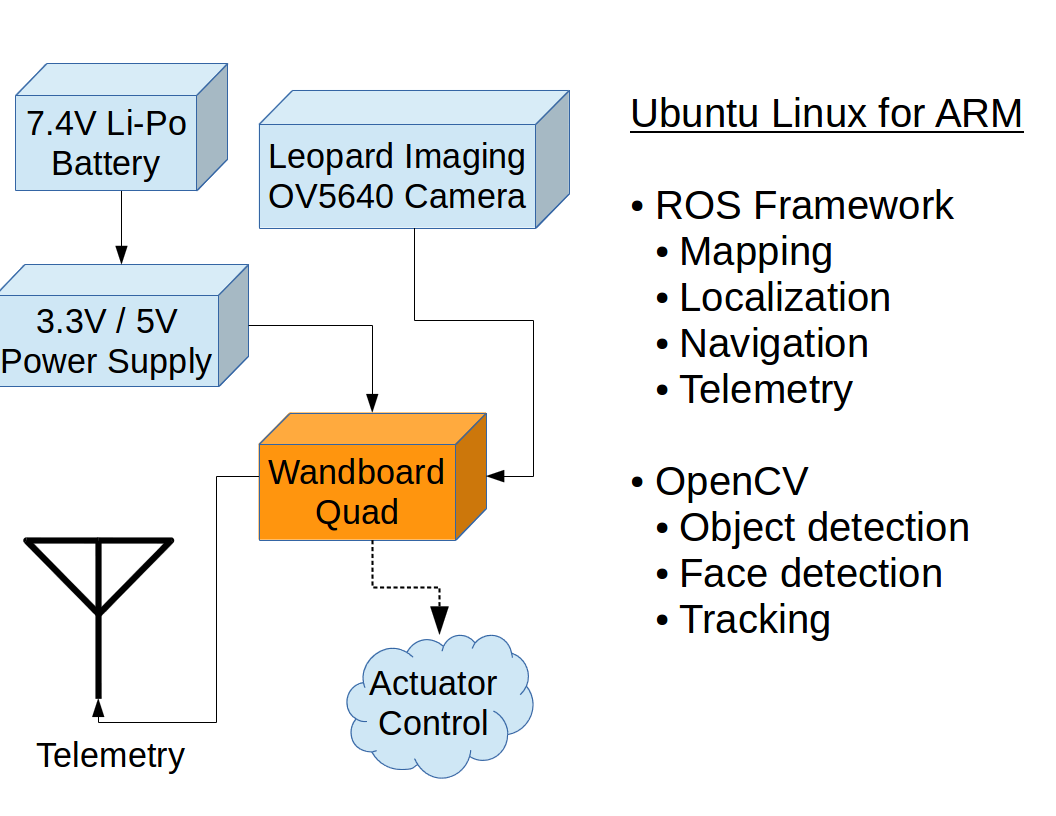
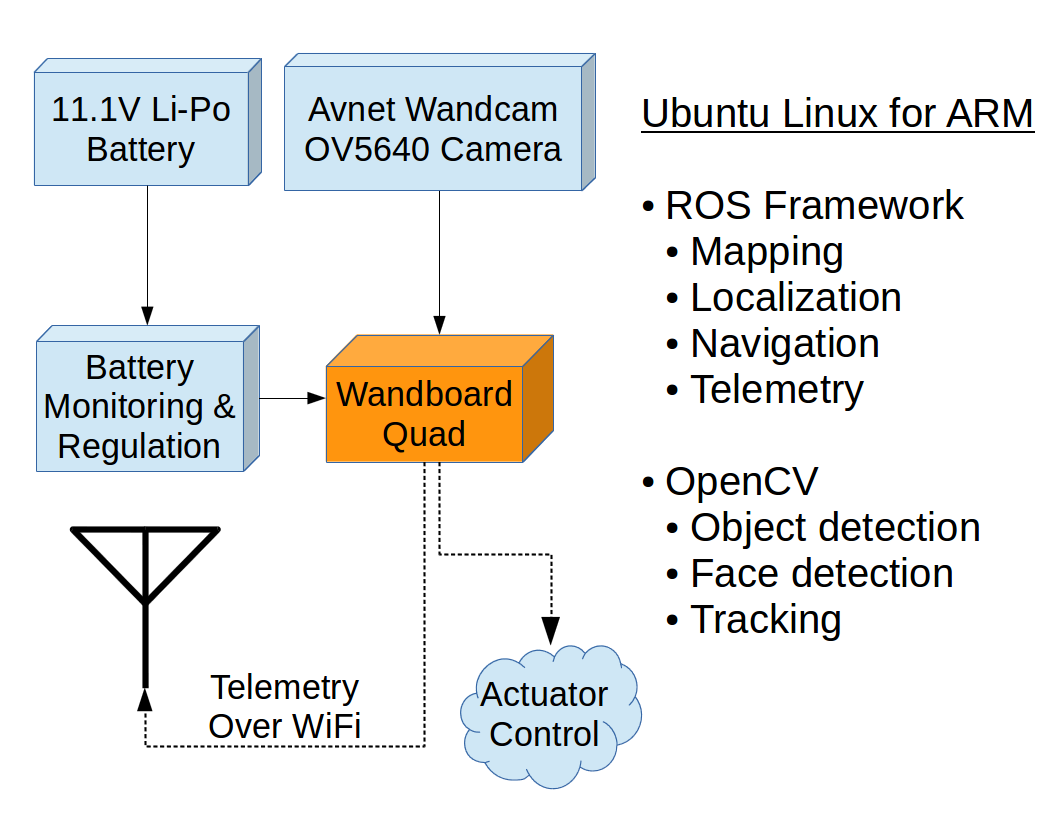
finished article 0, working on wrong branch

diff --git a/doc/articles/00_intro-article.md b/doc/articles/00_intro-article.md
@@ -2,16 +2,16 @@
 
 # C-BISCUIT: A  DIY Robotics Platform for the Hacker and Hobbyist
 
+_Full disclosure: AllAboutCircuits.com has a partnership with Freescale electronics which did influence our decision to use this part_
+
 ## Introduction
-This is the beginning of a multi-part, multi-author series on how to build your own robotics platform called C-BISCUIT, an acronym for **C**ollaborative **B**ot with **I**ntegrated **S**ystem **C**ore, **U**nmanned **I**nteractivity, and **T**elemetry. Based on the [Wandboard Quad](http://www.wandboard.org/), the idea is to collaboratively build a "core" module that can be dropped into various vehicle chassis (quadcopter, land rover, etc) and be reconfigured to perform the tasks of each vehicle. The Wandboard is a system-on-module (SOM) based around the quad-core i.MX6 Cortex-A9 processor from Freescale and is capable of running Linux and on top of that, the [Robot Operating System (ROS)](http://www.ros.org/).
+This is the beginning of a multi-part, multi-author series on how to build your own robotics platform called C-BISCUIT, an acronym for **C**ollaborative **B**ot with **I**ntegrated **S**ystem **C**ore, **U**nmanned **I**nteractivity, and **T**elemetry. Based on the [Wandboard Quad](http://www.wandboard.org/), the idea is to collaboratively build a "core" module that can be dropped into various vehicle chassis (quadcopter, land rover, etc) and be easily reconfigured to perform the tasks of each vehicle. The Wandboard is a system-on-module (SOM) based around the quad-core i.MX6 Cortex-A9 processor from Freescale and is capable of running Linux and on top of that, the [Robot Operating System (ROS)](http://www.ros.org/).
 
 <img src="./assets/wandboard-quad.png" alt="Wandboard Quad" style="width: 640px;"/>
 
 A _very_ capable machine for ~$130 USD
 
-_Full disclosure: AllAboutCircuits.com has a partnership with Freescale electronics which did influence our decision to use this part_
-
-[Trevor Gamblin](http://www.allaboutcircuits.com/author/trevor-gamblin), Nick Bentzen, and [Patrick Lloyd](http://www.allaboutcircuits.com/author/patrick-lloyd) are the primary authors of the project but due to the distributed nature of it, the code and design files can be found on [Github](https://github.com/AllAboutCircuits/C-BISCUIT). It is very much a work-in-progress so there is no guarantee that the code there is stable or in working order. Check back here regularly for stable releases and updated tutorials.
+[Trevor Gamblin](http://www.allaboutcircuits.com/author/trevor-gamblin), Nick Bentzen, and [Patrick Lloyd](http://www.allaboutcircuits.com/author/patrick-lloyd) are the primary authors of the project, but the code and design files can be found on [Github](https://github.com/AllAboutCircuits/C-BISCUIT). It is very much a work-in-progress so there is no guarantee that the code there is stable or in working order. Check back here regularly for stable releases and updated tutorials.
 
 ## System Overview
 The core module can be broken down into several key hardware and software components, each of which can be seen in the flowchart below:
@@ -26,19 +26,19 @@ To follow along with the tutorials, you'll need these parts to construct the cor
 * [Wandboard Quad](http://avnetexpress.avnet.com/store/em/EMController/WandBoard/WBQUAD/_/R-5004373176378/A-5004373176378/An-0?action=part&catalogId=500201&langId=-1&storeId=500201) - $129 USD
 * [Wandboard Antenna Kit for Telemetry](http://avnetexpress.avnet.com/store/em/EMController/WandBoard/WBANTENNAKIT/_/R-5004373176322/A-5004373176322/An-0?action=part&catalogId=500201&langId=-1&storeId=500201) - $10 USD
 * [Wandboard Enclosure](http://avnetexpress.avnet.com/store/em/EMController/WandBoard/WBENCLOSURE/_/R-5004373176294/A-5004373176294/An-0?action=part&catalogId=500201&langId=-1&storeId=500201) - $10 USD (Optional)
-* [LI-OV5640-USB-72 Camera](http://shop.leopardimaging.com/product.sc?productId=126&categoryId=23) - $89 USD
-* 1x [SH/SR Connector for Camera](http://www.digikey.com/product-detail/en/SHR-05V-S-B/455-1380-ND/759869) - $0.16 USD each
-* 5x [Pins for SH/SR Connector](http://www.digikey.com/product-detail/en/SSH-003T-P0.2/455-1561-1-ND/720818) - $0.11 USD each
-* Old USB cable to cannibalize
+* [Avnet Wandcam OV5640 Camera](http://avnetexpress.avnet.com/store/em/EMController/Development-Kits/Avnet-Design-Services-Custom/AES-WCAM-ADPT-G/_/R-5004412547442/A-5004412547442/An-0?action=part&catalogId=500201&langId=-1&storeId=500201&listIndex=-1&page=1&rank=0) - $49 USD
+* [SD Card (>=16 GB)](http://www.amazon.com/gp/product/B0143RTB1E/ref=pd_lpo_sbs_dp_ss_2?pf_rd_p=1944687502&pf_rd_s=lpo-top-stripe-1&pf_rd_t=201&pf_rd_i=B007JRB0SS&pf_rd_m=ATVPDKIKX0DER&pf_rd_r=0E0MYE8YW1GGJ79MB62Z) - $9 USD
+* [IMAX B6 Battery Charger](http://www.hobbyking.com/hobbyking/store/__5548__IMAX_B6_50W_5A_Charger_Discharger_1_6_Cells_GENUINE_.html) - $25 USD
+* [Turnigy 5000mAh 3S 30C Lipo Battery](http://www.hobbyking.com/hobbyking/store/__9515__Turnigy_5000mAh_3S_30C_Lipo_Pack.html) - $33 USD
+* [MPU650-based IMU breakout](http://www.robotshop.com/en/6-dof-gyro-accelerometer-imu-mpu6050.html) - $10 USD
 
-In addition, the core module by itself is not particularly useful without some form of vehicle to test on. So initially, it will be built on top a 4WD land rover based on [this platform from DFRobotics](http://www.robotshop.com/en/dfrobot-4wd-arduino-mobile-platform.html). It allows us to develop the core quickly and dedicate time for more ad-hoc platforms later.
+In addition, the core module by itself is not particularly useful without some form of vehicle to test on. So initially, it will be built on top a 4WD land rover based on [this platform from DFRobotics](http://www.robotshop.com/en/dfrobot-4wd-arduino-mobile-platform.html) ($56 USD) and the [L298 Dual H-Bridge DC Motor Controller](http://www.robotshop.com/en/l298-dual-h-bridge-dc-motor-controller.html) ($8 USD) . It allows us to develop the core quickly and dedicate time for more ad-hoc platforms later.
 
 <img src="./assets/dfrobot-4wd.jpg" alt="4WD robot platform" style="width: 640px;"/>
 
 A ready-made robot chassis kit
 
-Other components will be detailed in subsequent tutorials. The following section will hold the articles. Bookmark this page and check back regularly for updates.
-
+Other components, such as what you will need to build the Wandboard voltage regulator, will be detailed in subsequent tutorials.
 
 ## The Right Tools for the Job
 
@@ -57,6 +57,7 @@ Along the way, we'll mention in articles tied to particular subsystems any speci
 - Zip ties
 - Extra wiring and USB cables
 
+The following section will hold the articles describing those sub-projects. Bookmark this page and check back regularly for updates.
 
 ## Project Articles
 None yet. Stay tuned!
